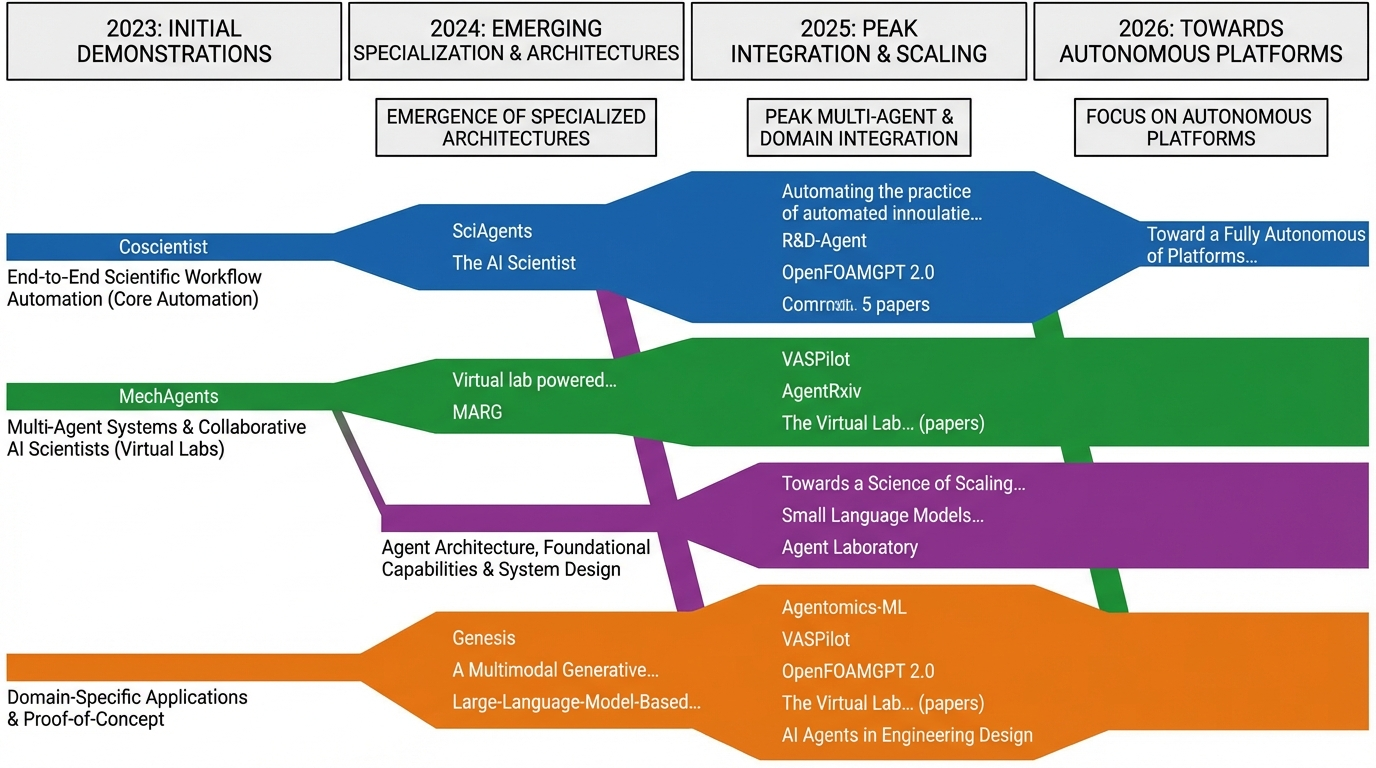
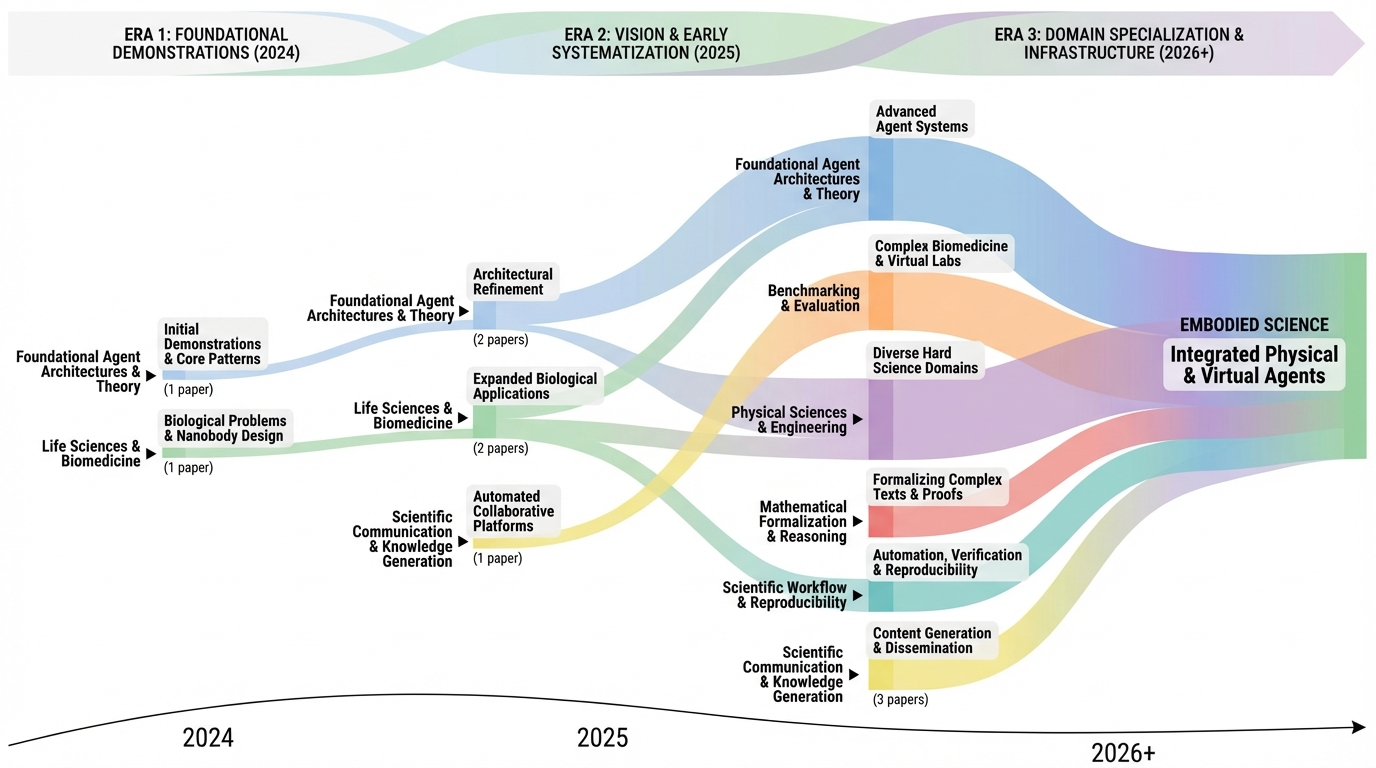
Update timeline style to organic curved bands + fix figure detection
- Timeline images regenerated with curved band style (width = paper count)
- Added ▶/◀ symbols for category emergence/decline
- Fixed figure detection to support alternative naming patterns (figure_*.png)
- Paper #5 (Lu et al. Nature 2026) now shows representative figure

diff --git a/ai4s/index.html b/ai4s/index.html
@@ -204,7 +204,7 @@ img.lazy.loaded { opacity: 1; }
           </div>
           <h3><a href="175_Towards_end-to-end_automation_of_AI/index.html">Towards end-to-end automation of AI research</a></h3>
           <p class="meta"><strong>저자</strong>: Chris Lu, Cong Lu, Robert Tjarko Lange, Yutaro Yamada, Shengran Hu, Jakob Foerster, David Ha & Jeff Clune | <strong>날짜</strong>: 2026.03 | <strong>Journal</strong>: Nature | <strong>DOI</strong>: [10.1038/s41586-026-10265-5](https://doi.org/10.1038/s41586-026-10265-5)</p>
-          
+          <div class="paper-fig"><img data-src="175_Towards_end-to-end_automation_of_AI/figures/figure_1_pipeline_scaling.png" alt="Figure" class="lazy"></div>
           <div class="section">
             <div class="section-label">Essence</div>
             <p>AI가 아이디어 구상부터 실험, 논문 작성, 피어리뷰까지 과학 연구의 전 과정을 자율적으로 수행할 수 있는가? 본 논문은 "The AI Scientist"라는 파이프라인을 통해 이 질문에 최초의 실증적 답변을 제시한다. AI가 생성한 논문이 실제 top-tier ML 학회 워크숍의 피어리뷰를 통과했으며, 모델 성능과 추론 시 컴퓨트 투입량이 증가할수록 논문 품질이 체계적으로 향상됨을 보인다.</p>
@@ -1104,7 +1104,7 @@ img.lazy.loaded { opacity: 1; }
           </div>
           <h3><a href="089_OWL_Optimized_Workforce_Learning_f/index.html">OWL: Optimized Workforce Learning for General Multi-Agent Assistance in Real-World Task Automation</a></h3>
           <p class="meta"></p>
-          
+          <div class="paper-fig"><img data-src="089_OWL_Optimized_Workforce_Learning_f/figures/fig2.png" alt="Figure" class="lazy"></div>
           <div class="section">
             <div class="section-label">Essence</div>
             <p></p>
